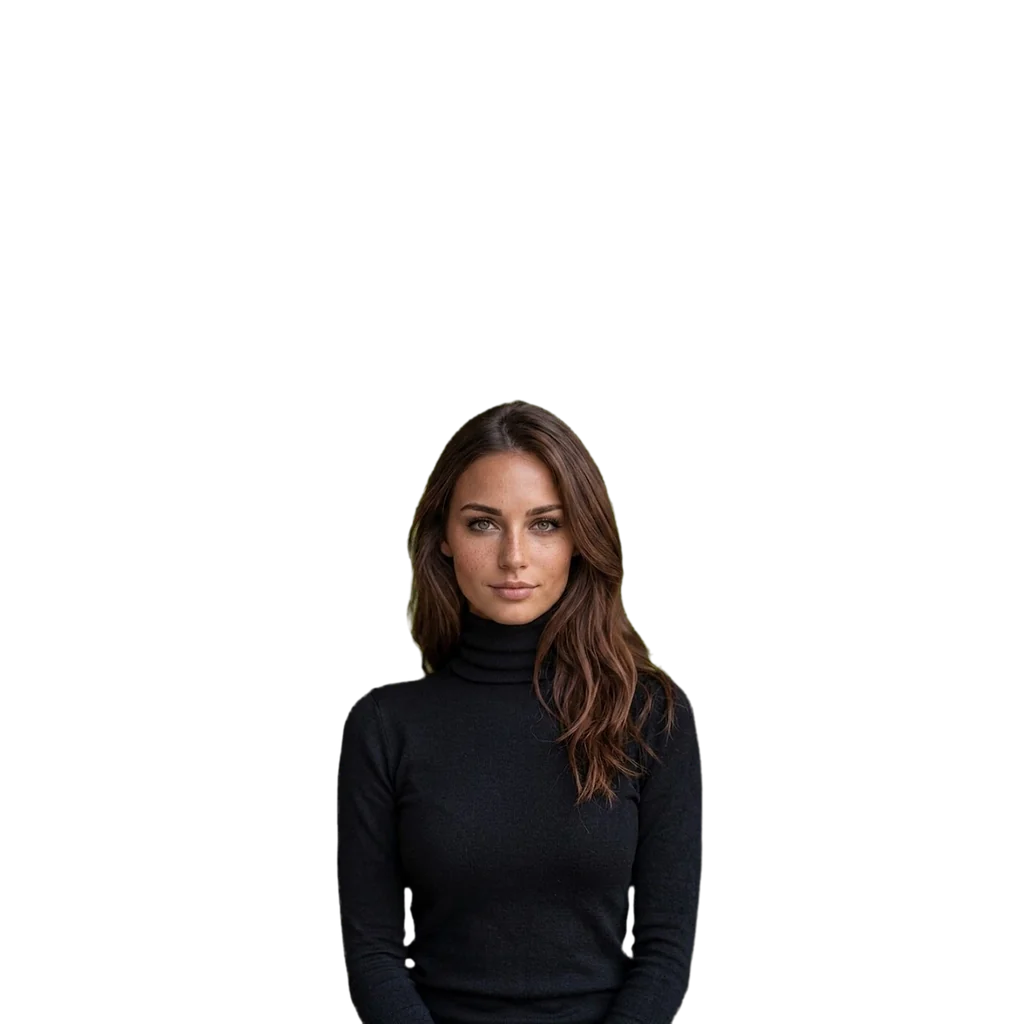
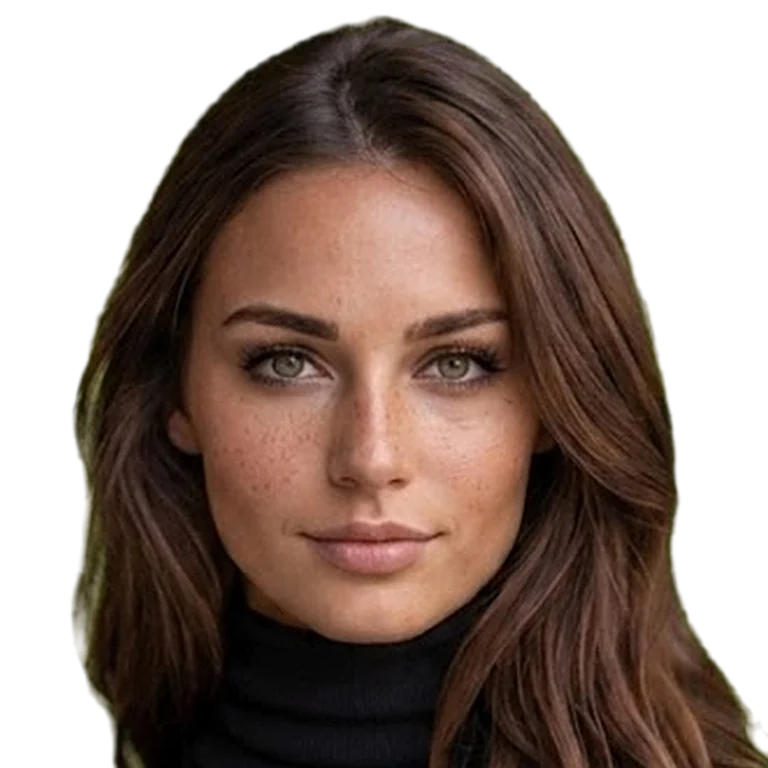
Hero: size her to the tight stream, fit the room beside the copy, no zoom in the dock (#267)
The live stream is a square tight on her head, so the box is sized from the
stage height and the room right of the copy. The poster uses the same framing.
The dock circle shows the stream as is on a CSS backdrop.

diff --git a/src/assets/styles.css b/src/assets/styles.css
@@ -1077,9 +1077,9 @@ video {
 /* The avatar box holds the video and, once the green backdrop is keyed out,
    its canvas. On wide screens it is the one part that flies to the dock. */
 :root {
-  /* Her stream is a square with her face in the middle. The dock and drawer
-     circles zoom in on it. */
-  --avatar-zoom: 2.35;
+  /* Her stream is a square, tight on her head. The dock and drawer circles
+     show it as is, on a CSS backdrop. */
+  --avatar-zoom: 1;
   --avatar-bg: radial-gradient(circle at 50% 40%, #3b4a7c 0%, #171a22 78%);
 }
 
@@ -1091,6 +1091,7 @@ video {
 .nova-avatar :is(video, canvas) {
   position: absolute;
   inset: 0;
+  object-fit: cover;
 }
 
 /* Keyed canvas (connect.js). The plain video stays in the layout, invisible,
@@ -2196,11 +2197,13 @@ html:not(.nova-ready) :is(.nova-hero-prompts, .nova-placeholder, .nova-chat-star
    the same dark stage on purpose. */
 @media (min-width: 901px) {
   :root {
-    --stage-h: clamp(520px, calc(100svh - 230px), 680px);
-    --copy-w: clamp(24rem, 36vw, 32rem);
-    --copy-h: 25rem;
+    --stage-h: clamp(500px, calc(100svh - 290px), 680px);
+    --copy-w: clamp(21rem, 34vw, 32rem);
+    --copy-h: min(27rem, calc(var(--stage-h) - 4rem));
     --input-h: 3.25rem;
-    --avatar-size: calc(var(--stage-h) * 1.3);
+    /* Most of the stage height, but never wider than the room right of the copy.
+       --stage-w is the hero width in px, written by dock.js. */
+    --avatar-size: min(calc(var(--stage-h) * 0.8), calc(var(--stage-w, 60rem) - var(--content-pad-x) - var(--copy-w) - 1.5rem));
     /* Horizontal centre of her column, measured in the hero/widget box. */
     --stage-cx: calc((var(--content-pad-x) + var(--copy-w) + 100%) / 2);
     --glass-fill: linear-gradient(145deg, rgba(255, 255, 255, 0.12), rgba(255, 255, 255, 0.04));
@@ -2243,15 +2246,15 @@ html:not(.nova-ready) :is(.nova-hero-prompts, .nova-placeholder, .nova-chat-star
 
   .nova-hero-card h2 {
     margin: 0 0 0.75rem;
-    font-size: 2.75rem;
+    font-size: clamp(2.25rem, 3.4vw, 2.75rem);
     line-height: 1.1;
     color: #fff;
   }
 
   .nova-hero-card p {
     margin: 0;
-    font-size: 1.05rem;
-    line-height: 1.55;
+    font-size: clamp(0.95rem, 1.2vw, 1.05rem);
+    line-height: 1.5;
     color: rgba(255, 255, 255, 0.72);
   }
 
@@ -2316,8 +2319,8 @@ html:not(.nova-ready) :is(.nova-hero-prompts, .nova-placeholder, .nova-chat-star
     filter: none;
   }
 
-  /* Her box stands on the bottom edge of the stage. The stream is a square with
-     her face in the middle, so the box is big and its top half is empty. */
+  /* Her box stands on the bottom edge of the stage. The stream is a tight
+     square on her head, so the box is a square of most of the stage height. */
   .nova-widget:not(.dock-mode):not(.drawer-mode) .nova-avatar {
     inset: auto;
     left: calc(var(--stage-cx) - var(--avatar-size) / 2);
@@ -2522,6 +2525,7 @@ html:not(.nova-ready) :is(.nova-hero-prompts, .nova-placeholder, .nova-chat-star
     max-height: none;
     font-size: 0.95rem;
     line-height: 1.5;
+    padding-top: 0.75rem;
     border-top-color: var(--glass-line);
   }
 
@@ -2570,10 +2574,11 @@ html:not(.nova-ready) :is(.nova-hero-prompts, .nova-placeholder, .nova-chat-star
     background: var(--avatar-bg);
   }
 
-  /* Her stream is a square with her face in the middle: crop in on the card. */
-  .nova-widget:not(.dock-mode):not(.drawer-mode) .nova-avatar :is(video, canvas) {
-    transform: translateY(-8%) scale(1.7);
-    transform-origin: 50% 50%;
+  /* While live the card is taller: she stays a square at the top, the chat sits below her. */
+  html.nova-live .nova-widget:not(.dock-mode):not(.drawer-mode) .nova-avatar {
+    bottom: auto;
+    height: auto;
+    aspect-ratio: 1;
   }
 }
 

diff --git a/src/assets/nova/dock.js b/src/assets/nova/dock.js
@@ -131,6 +131,7 @@ function updateHeroScrollProgress() {
     const hidden = Math.max(0, STAGE_HEADER - slotRect.top);
     widget.style.clipPath = hidden ? `inset(${hidden}px -100vmax -100vmax -100vmax)` : '';
     if (wrap) wrap.style.borderRadius = '';
+    root.style.setProperty('--stage-w', `${slotRect.width}px`);
     root.style.setProperty('--hero-p', eased.toFixed(4));
     root.classList.toggle('hero-leaving', raw > 0);
     widget.classList.toggle('hero-leaving', raw > 0);
@@ -188,6 +189,7 @@ function updateHeroScrollProgress() {
 /** Drops everything the wide-screen flight wrote, e.g. after a resize to a narrow window. */
 function clearStage(root, avatar) {
   root.style.removeProperty('--hero-p');
+  root.style.removeProperty('--stage-w');
   root.classList.remove('hero-leaving');
   widget.classList.remove('hero-leaving');
   if (avatar) {
